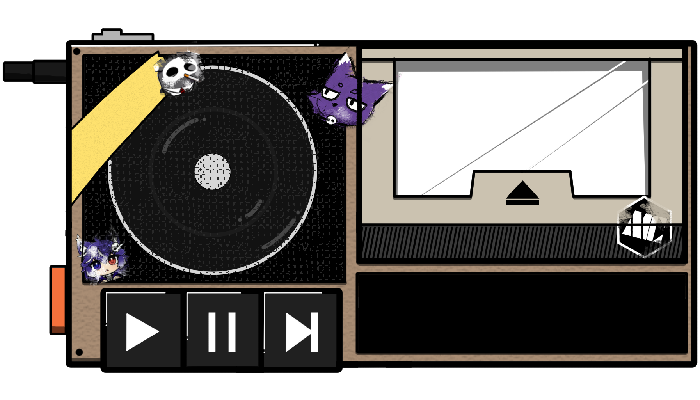
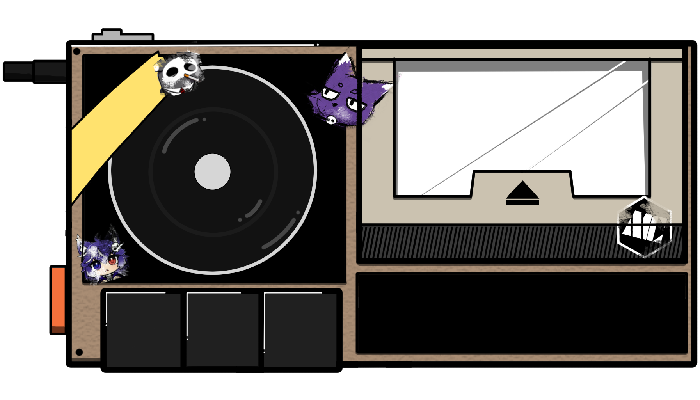
Some player fixes and added new request popup

diff --git a/src/views/rrm/overlay.vue b/src/views/rrm/overlay.vue
@@ -20,38 +20,49 @@ useHead({
 </script>
 
 <template>
-  <div class="fixed w-[1920px] h-[1080px] top-0 left-0">
+  <div class="fixed w-[1920px] h-[1080px] top-0 left-0 inconsolata">
+    <button class="bg-red-500 rounded-lg m-4 mt-80 px-2 text-white text-lg" @click="addTape()">Add Tape</button>
     <button class="bg-red-500 rounded-lg m-4 mt-80 px-2 text-white text-lg" @click="updateTapes()">Refresh</button>
     <button class="bg-red-500 rounded-lg m-4 mt-80 px-2 text-white text-lg" @click="bumpTapeList()">Bump Tapes</button>
     <div class="absolute -bottom-[5%] w-full h-[29%]">
       <div class="flex flex-row w-full h-full">
-        <div id="tapePlayer" class="w-[25%] -ml-10 h-auto relative">
-          <img class="static z-50" src="/images/rrm/overlay/Player.png">
+        <div id="tapePlayer" class="basis-1/4 -ml-10 h-auto relative">
+          <img class="static z-10" src="/images/rrm/overlay/Player.png">
+
           <div id="tapeTray" class="top-[12%] right-[4%] absolute h-[43%] w-[43%] object-center -z-50">
           </div>
 
-          <div class="bottom-[23%] right-[2%] absolute h-[16%] w-[47%] text-sm flex flex-col leading-4 text-green-400 inconsolata">
+          <div class="bottom-[23%] right-[2%] absolute h-[16%] w-[47%] text-sm flex flex-col leading-4 text-green-400">
             Now Playing...
-            <div class="text-left text-nowrap overflow-clip">
+            <div id="tapePlayerSongName" class="text-left text-nowrap overflow-clip">
               Noisestorm - Crab Rave [Monstercat Release]
             </div>
             <div class="flex flex-row">
-              <div class="grow text-left">
+              <div id="tapePlayerRequester" class="grow text-left">
                 Ramiris_
               </div>
-              <div class="text-right">
+              <div id="tapePlayerSongId" class="text-right">
                 URL
               </div>
             </div>
           </div>
 
-  <!--        <div class="top-[15%] left-[16%] absolute w-[29%] aspect-square rounded-full overflow-clip">-->
-  <!--          <img src="https://img.youtube.com/vi/LDU_Txk06tM/default.jpg" class="object-cover h-full w-full">-->
-  <!--        </div>-->
-  <!--        <img src="/images/rrm/overlay/SpeakerDisc.png" class="top-[15%] left-[16%] absolute w-[29%] aspect-square rounded-full">-->
+          <div class="top-[15%] left-[16%] absolute w-[29%] aspect-square rounded-full overflow-clip">
+            <img id="tapePlayerThumbnail" src="https://img.youtube.com/vi/LDU_Txk06tM/default.jpg" class="object-cover h-full w-full z-30" style="animation: record-spin 8s linear infinite">
+          </div>
+          <img class="absolute z-50 top-0 left-0" src="/images/rrm/overlay/PlayerOverlay.png">
+
+          <div class="bottom-[19%] left-[15%] absolute h-[17%] w-[32%] flex flex-row *:scale-75">
+            <img id="tapePlayerButton1" src="/images/rrm/overlay/PlayerButton1.png">
+            <img id="tapePlayerButton2" src="/images/rrm/overlay/PlayerButton2.png">
+            <img id="tapePlayerButton3" src="/images/rrm/overlay/PlayerButton3.png">
+          </div>
 
         </div>
-        <div id="tapeList" class="flex flex-row grow *:translate-y-20 *:-rotate-[30deg] self-end pl-8 overflow-clip h-full">
+        <div id="tapeList" class="flex flex-row basis-1/2 grow *:translate-y-20 *:-rotate-[30deg] self-end pl-8 overflow-clip h-full">
+        </div>
+        <div id="tapeNotification" class="basis-1/4 opacity-0 flex flex-col items-center">
+          <div class="text-2xl text-center text-[#ffbb00] translate-y-16 NotificationTextGlow">NEW!</div>
         </div>
       </div>
     </div>
@@ -69,12 +80,40 @@ useHead({
   }
 
   let requestList = []
-  requestList.push({songname:"Noisestorm - Crab Rave [Monstercat Release]", requester:"Ramiris_", songid:"URL", thumbnail:"https://img.youtube.com/vi/LDU_Txk06tM/default.jpg"})
   requestList.push({songname:"Maroon 5 - Sugar", requester:"Ramiris_", songid:"607", thumbnail:"https://img.youtube.com/vi/yIZ3qtawiK0/default.jpg"})
   requestList.push({songname:"[Kinect Star Wars] I'm Han Solo", requester:"Ramiris_", songid:"2102", thumbnail:"https://img.youtube.com/vi/x_xJqkzngBI/default.jpg"})
+  requestList.push({songname:"Noisestorm - Crab Rave [Monstercat Release]", requester:"Ramiris_", songid:"URL", thumbnail:"https://img.youtube.com/vi/LDU_Txk06tM/default.jpg"})
   requestList.push({songname:"I WANT IT THAT WAY (Remix) by Backstreet Boys", requester:"Chat", songid:"TEST 4", thumbnail:"https://img.youtube.com/vi/LUoJiTr7LJw/default.jpg"})
   let requestTapes = {}
   let currentIndex = 0
+
+  function addTape() {
+    let notificationBox = $("#tapeNotification")
+    let result1 = '';
+    let result2 = '';
+    const characters = 'ABCDEFGHIJKLMNOPQRSTUVWXYZabcdefghijklmnopqrstuvwxyz0123456789';
+    const charactersLength = characters.length;
+    let counter = 0;
+    while (counter < 30) {
+      result1 += characters.charAt(Math.floor(Math.random() * charactersLength));
+      counter += 1;
+    }
+    counter = 0;
+    while (counter < 10) {
+      result2 += characters.charAt(Math.floor(Math.random() * charactersLength));
+      counter += 1;
+    }
+
+    let newTapeData = {songname:result1, requester:result2, songid:String(Math.floor(Math.random() * 9999)), thumbnail:"https://img.youtube.com/vi/LDU_Txk06tM/default.jpg"}
+    requestList.push(newTapeData)
+    let newTape = createTape(String(requestList.length -1), newTapeData.songname, newTapeData.requester, newTapeData.songid, newTapeData.thumbnail)
+    notificationBox.append(newTape)
+    notificationBox.css({"animation": "new-tape-notification 10s"})
+    setTimeout(() => {
+      newTape.parentNode.removeChild(newTape)
+      notificationBox.css({"animation": ""})
+    }, 9990)
+  }
 
   function createTape(index: string, songname: string, requester: string, songid: string, thumbnail: string) {
     let newTape = createApp(OverlayTape, {
@@ -89,10 +128,14 @@ useHead({
   }
 
   function updateTapes() {
-    // @ts-ignore
     let tray = $("#tapeTray")
-    // @ts-ignore
     let tapeList = $("#tapeList")
+    let tapePlayerSongName = $("#tapePlayerSongName")
+    let tapePlayerSongId = $("#tapePlayerSongId")
+    let tapePlayerRequester = $("#tapePlayerRequester")
+    let tapePlayerThumbnail = $("#tapePlayerThumbnail")
+    let tapePlayerButton1 = $("#tapePlayerButton1")
+    let tapePlayerButton2 = $("#tapePlayerButton2")
     for (let reqId in requestList) {
       let reqData = requestList[reqId]
       console.log(reqId, reqData)
@@ -113,6 +156,12 @@ useHead({
         newTape.style.margin = "-28% -43%"
         tray.append(newTape)
         tray.css({"animation": "insert-tape-to-tray 2s"})
+        tapePlayerSongName.text(reqData.songname)
+        tapePlayerSongId.text(reqData.songid)
+        tapePlayerRequester.text(reqData.requester)
+        tapePlayerThumbnail.attr("src",reqData.thumbnail)
+        tapePlayerButton2.removeClass("PlayerButtonPressed")
+        tapePlayerButton1.addClass("PlayerButtonPressed")
       }
       else if (Number(reqId) > currentIndex){
         newTape.style.margin = "0 -7.5rem"
@@ -120,20 +169,33 @@ useHead({
           tapeList.append(newTape)
           //$(newTape).css({"animation": "show-tape-in-list 1s"})
           newTape.style.animation = "show-tape-in-list 1s"
-        }, (reqId*100)+2000)
+        }, ((reqId-currentIndex)*100)+2000)
       }
     }
     console.log("final", requestTapes)
   }
 
   function bumpTapeList() {
-    // @ts-ignore
+    let tapePlayerSongName = $("#tapePlayerSongName")
+    let tapePlayerSongId = $("#tapePlayerSongId")
+    let tapePlayerRequester = $("#tapePlayerRequester")
+    let tapePlayerThumbnail = $("#tapePlayerThumbnail")
+    let tapePlayerButton1 = $("#tapePlayerButton1")
+    let tapePlayerButton2 = $("#tapePlayerButton2")
     let tray = $("#tapeTray")
+
+    tapePlayerButton1.removeClass("PlayerButtonPressed")
+    tapePlayerButton2.addClass("PlayerButtonPressed")
+
     let currentTape = requestTapes[currentIndex]
     currentTape.parentNode.style.animation = "remove-tape-from-tray 1s"
     let nextTape = requestTapes[currentIndex+1]
     nextTape.style.animation = "bump-tape-from-list 1s"
     let placeholder = $(`<div style='width: ${nextTape.offsetWidth}px; margin: 0 -8rem'/>`)
+    tapePlayerSongName.text("")
+    tapePlayerSongId.text("")
+    tapePlayerRequester.text("")
+    tapePlayerThumbnail.attr("src","")
     setTimeout(() => {
       currentTape.parentNode.style.animation = ""
       currentTape.parentNode.removeChild(currentTape)
@@ -146,6 +208,15 @@ useHead({
       tray.append(nextTape)
       nextTape.style.margin = "-28% -43%"
       tray.css({"animation": "insert-tape-to-tray 2s"})
+      setTimeout(() => {
+        let tapeData = requestList[currentIndex]
+        tapePlayerSongName.text(tapeData.songname)
+        tapePlayerSongId.text(tapeData.songid)
+        tapePlayerRequester.text(tapeData.requester)
+        tapePlayerThumbnail.attr("src",tapeData.thumbnail)
+        tapePlayerButton2.removeClass("PlayerButtonPressed")
+        tapePlayerButton1.addClass("PlayerButtonPressed")
+      }, 1800)
     }, 990)
   }
 </script>
@@ -218,5 +289,43 @@ useHead({
     opacity: 0;
     transform: translate(0, 0) scale(0.5) rotate(-30deg);
   }
+}
+
+@keyframes new-tape-notification {
+  0% {
+    opacity: 0;
+    transform: translate(0, 100%) scale(0);
+  }
+  30% {
+    opacity: 1;
+    transform: translate(0, 0) scale(1.2);
+  }
+  70% {
+    opacity: 1;
+    transform: translate(0, 0) scale(1);
+  }
+  90% {
+    opacity: 0;
+  }
+  100% {
+    transform: translate(0, 100%) scale(0);
+  }
+}
+
+@keyframes record-spin {
+  100% {
+    -webkit-transform: rotate(360deg);
+    transform:rotate(360deg);
+  }
+}
+
+.PlayerButtonPressed {
+  filter: invert(61%) sepia(34%) saturate(994%) hue-rotate(89deg) brightness(170%) contrast(87%);
+  transform: translateY(2px) scale(0.70);
+}
+
+.NotificationTextGlow {
+  text-shadow: 1px 1px 3px rgba(255, 187, 0, 0.5),
+  -1px -1px 3px rgba(255, 187, 0, 0.5);
 }
 </style>

diff --git a/src/components/rrm/OverlayTape.vue b/src/components/rrm/OverlayTape.vue
@@ -11,8 +11,8 @@ defineProps(['songname', "requester", "songid", "thumbnail"])
     <img ref="label" class="absolute top-0">
 <!--    <div class="absolute text-left w-[89%] left-[5%] top-[14%] text-2xl text-black leading-[0.9]">{{ songname }}</div>-->
     <div class="absolute text-left w-[89%] left-[5%] top-[16%] h-8 text-4xl text-black leading-[0.9] text-clip overflow-hidden">{{ songname }}</div>
-    <div class="absolute text-left w-[60%] left-[5%] bottom-[34%] text-2xl text-black font-bold text-clip overflow-hidden">{{ requester }}</div>
-    <div class="absolute text-left w-[20%] right-[6%] bottom-[34%] text-right text-2xl text-black font-bold text-clip overflow-hidden">{{ songid }}</div>
+    <div class="absolute text-left w-[60%] left-[5%] bottom-[34%] text-2xl text-black text-clip overflow-hidden">{{ requester }}</div>
+    <div class="absolute text-left w-[20%] right-[6%] bottom-[34%] text-right text-2xl text-black text-clip overflow-hidden">{{ songid }}</div>
   </div>
 </template>
 
